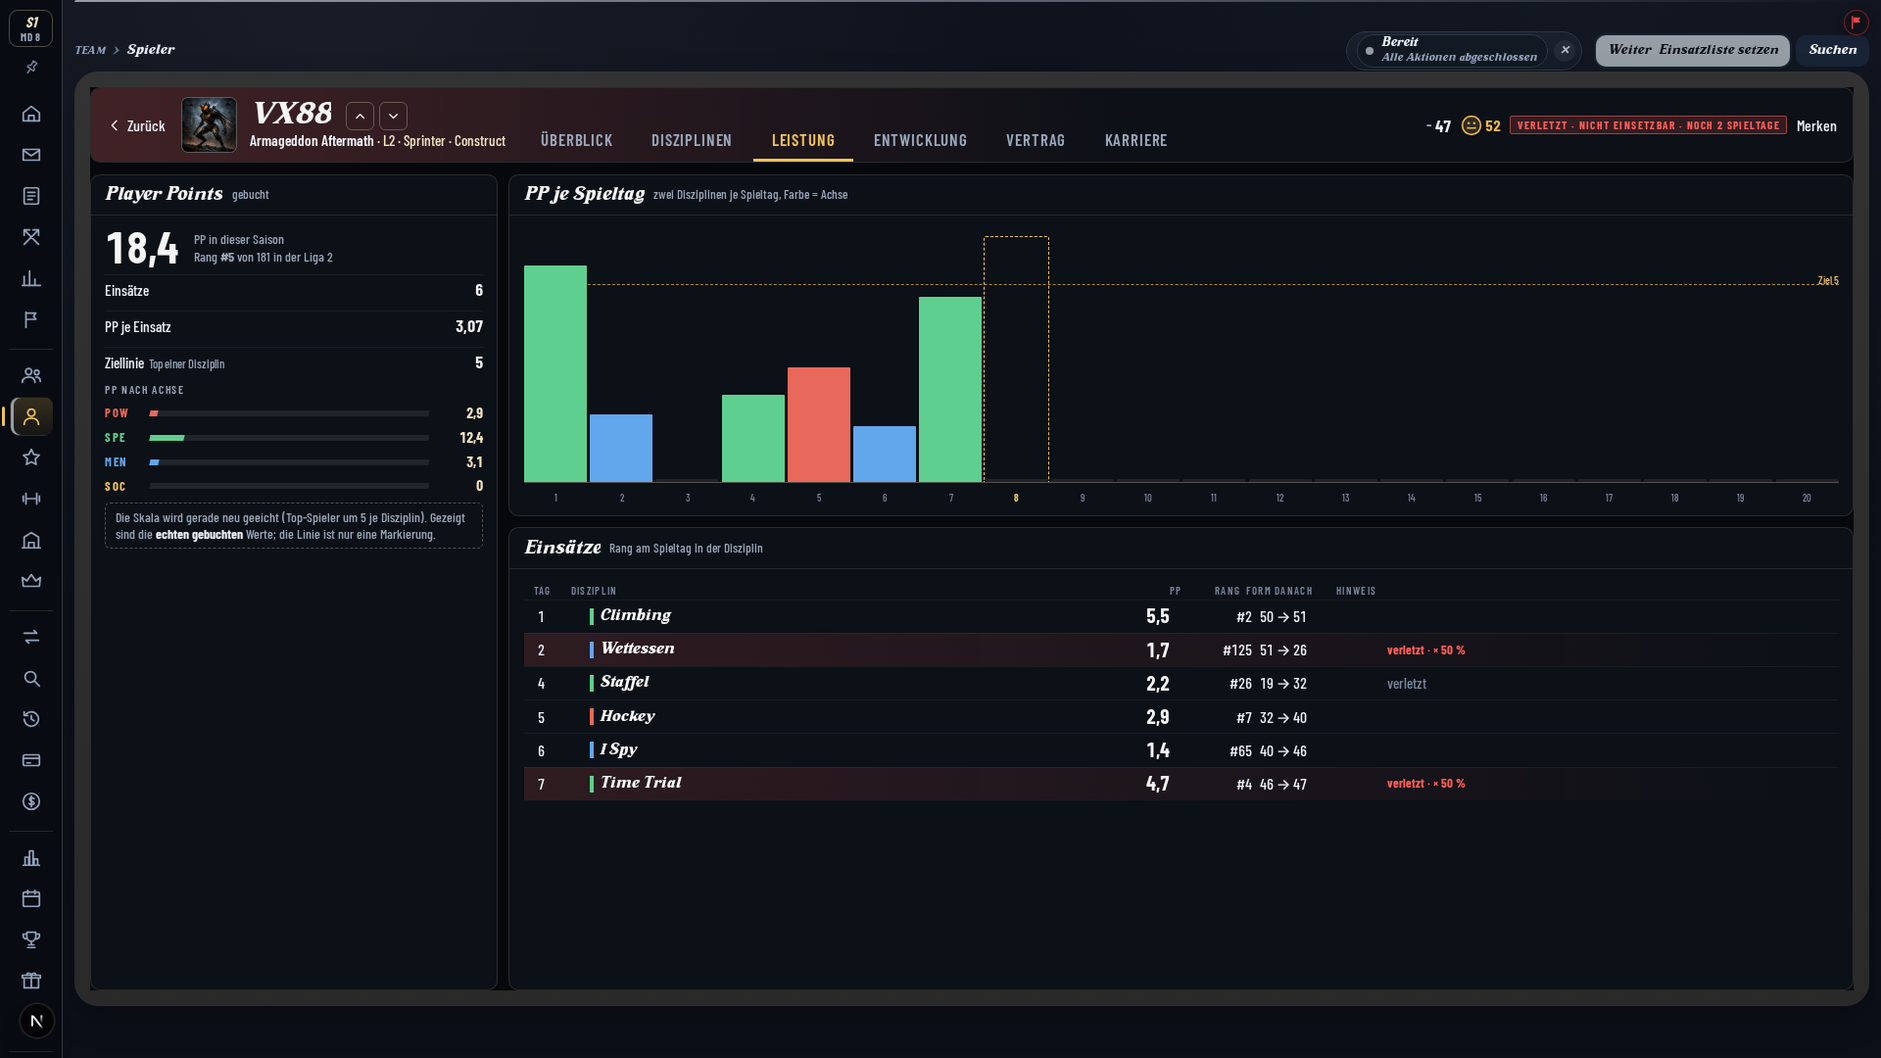
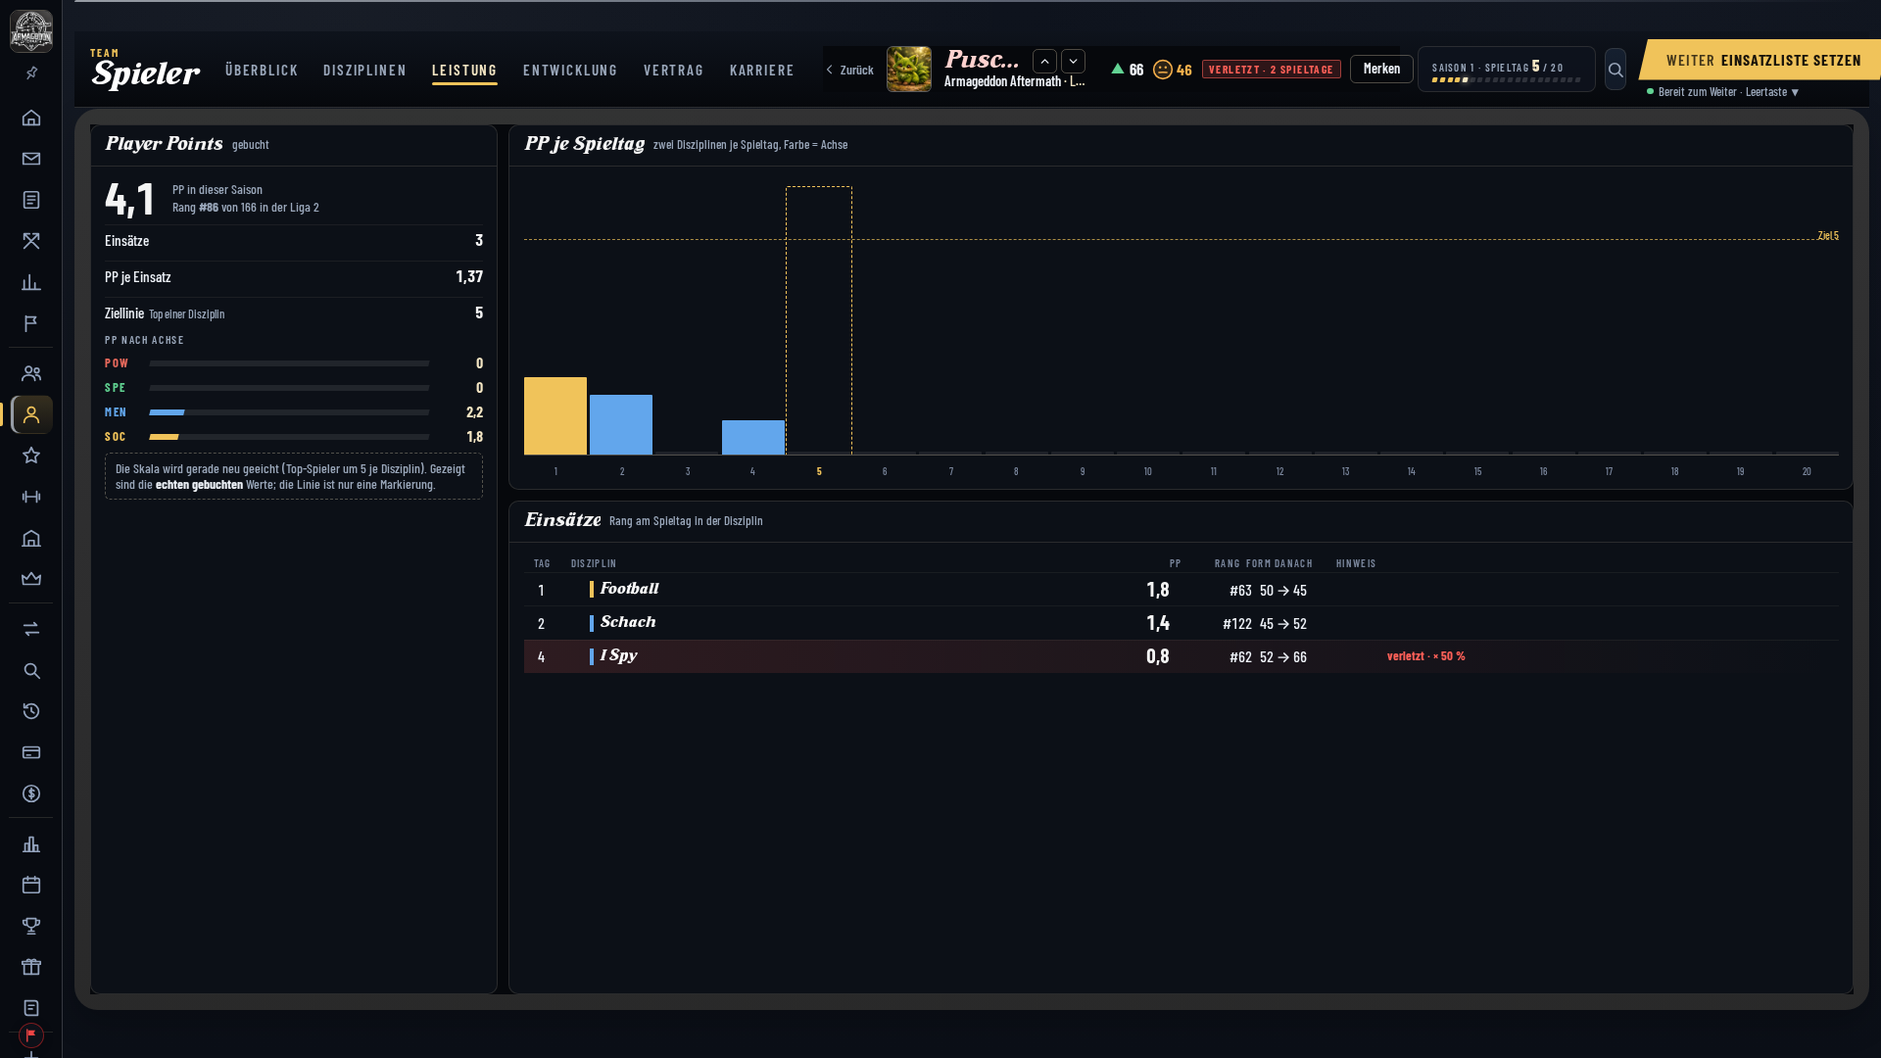
Spielerprofil: Kopf im Regieband des App-Rahmens, Aufnahme-Skript (#1606)
* chore(spielerprofil): Aufnahme-Skript mit Produktionsbuild, Save getrennt, Drawer-Aktionen

Claude-Session: https://claude.ai/code/session_01UYLNtXkprKr1XK4c3X2xQq

* docs(spielerprofil): bisherige Aufnahmen behalten (vor dem Rahmen-Einbau aufgenommen)

Claude-Session: https://claude.ai/code/session_01UYLNtXkprKr1XK4c3X2xQq

* docs(spielerprofil): Abgleich um Rahmen-Einbau ergaenzt

Claude-Session: https://claude.ai/code/session_01UYLNtXkprKr1XK4c3X2xQq

* Spielerprofil: Seite passt in den Rahmen, Kopf mit Namen bei Verletzung, Aufstieg-Animation ohne Bezugsrahmen fuer Fenster, Skript findet Kaderkarten

Claude-Session: https://claude.ai/code/session_01UYLNtXkprKr1XK4c3X2xQq

* Spielerprofil: Neuaufnahmen im Rahmen, Klicktest dokumentiert, Band bei Verletzung ohne Ueberlauf

Claude-Session: https://claude.ai/code/session_01UYLNtXkprKr1XK4c3X2xQq

* Spielerprofil: Verletzungstext im Band wieder aus modell.verletzung.text (Vertrag), kleiner und kuerzbar; Ueberblick-Bilder neu

Claude-Session: https://claude.ai/code/session_01UYLNtXkprKr1XK4c3X2xQq

---------

diff --git a/scripts/screenshot-spielerprofil-neu.ts b/scripts/screenshot-spielerprofil-neu.ts
@@ -6,7 +6,7 @@
 //
 // AUFRUF: npx tsx scripts/screenshot-spielerprofil-neu.ts [spieltage=7]
 // ===================================================================================
-import { spawn, type ChildProcessWithoutNullStreams } from "node:child_process";
+import { spawn, spawnSync, type ChildProcessWithoutNullStreams } from "node:child_process";
 import fs from "node:fs/promises";
 import os from "node:os";
 import path from "node:path";
@@ -121,12 +121,22 @@ async function istErreichbar(timeoutMs: number) {
 }
 
 function starteDevServer(): ChildProcessWithoutNullStreams {
+  const env: NodeJS.ProcessEnv = { ...process.env, OLY_APP_SQLITE_PATH: SQLITE_PATH, PORT, OLY_AUTO_EXPORT_SAVES: "0", OLY_AUTO_EXPORT_PUSH: "0" };
+  // `--use-openssl-ca` in NODE_OPTIONS lässt „Collecting page data“ des Builds scheitern.
+  delete env.NODE_OPTIONS;
+  if (process.env.OLY_SHOT_PROD === "1") {
+    // Produktionsbuild statt Dev-Server (spart Speicher): erst bauen, dann starten. `.next` räumt der Aufrufer danach weg.
+    console.log("[screenshot-profil] baue Produktionsbuild (npm run build) ...");
+    const bau = spawnSync("npm", ["run", "build"], { env, stdio: "inherit" });
+    if (bau.status !== 0) throw new Error(`Build fehlgeschlagen (Status ${bau.status}).`);
+    console.log("[screenshot-profil] starte Produktionsserver (npm run start) ...");
+    const kind = spawn("npm", ["run", "start"], { env, stdio: ["ignore", "pipe", "pipe"], detached: true });
+    kind.stdout.on("data", (stueck) => process.stdout.write(`[srv] ${stueck}`));
+    kind.stderr.on("data", (stueck) => process.stderr.write(`[srv] ${stueck}`));
+    return kind;
+  }
   console.log("[screenshot-profil] starte Dev-Server (OLY_AUTO_EXPORT_SAVES=0, OLY_AUTO_EXPORT_PUSH=0) ...");
-  const kind = spawn("npm", ["run", "dev"], {
-    env: { ...process.env, OLY_APP_SQLITE_PATH: SQLITE_PATH, PORT, OLY_AUTO_EXPORT_SAVES: "0", OLY_AUTO_EXPORT_PUSH: "0" },
-    stdio: ["ignore", "pipe", "pipe"],
-    detached: true,
-  });
+  const kind = spawn("npm", ["run", "dev"], { env, stdio: ["ignore", "pipe", "pipe"], detached: true });
   kind.stdout.on("data", (stueck) => process.stdout.write(`[dev] ${stueck}`));
   kind.stderr.on("data", (stueck) => process.stderr.write(`[dev] ${stueck}`));
   return kind;
@@ -175,6 +185,10 @@ async function main() {
     persistence.saveSingleplayerState(
       ids.saveId, applyGameModeOwnership(stand, { saveMode: "solo_1", chrisTeamIds: [ids.teamId], frankyTeamIds: [] }),
     );
+  }
+  if (process.env.OLY_SHOT_NUR_SAVE === "1") {
+    console.log("[screenshot-profil] Save fertig, Abbruch wie gewünscht (OLY_SHOT_NUR_SAVE=1).");
+    return;
   }
   const gewaehlt = ids;
   console.log(`[screenshot-profil] Star ${gewaehlt.starId}, verletzt ${gewaehlt.verletztId}, fremd ${gewaehlt.fremdId}, ohne Figur ${gewaehlt.ohneFigurId}`);
@@ -231,6 +245,7 @@ async function main() {
       const dsf = b === 2560 ? 1 : 1;
       await aufnehmen(b, h, `01-ueberblick-star-${name}.png`, gewaehlt.starId, "overview", undefined, dsf);
       await aufnehmen(b, h, `02-ueberblick-verletzt-${name}.png`, gewaehlt.verletztId, "overview", undefined, dsf);
+      if (name === "1710x1112") continue;
       await aufnehmen(b, h, `03-disziplinen-${name}.png`, gewaehlt.starId, "disciplines", undefined, dsf);
       await aufnehmen(b, h, `04-leistung-verletzt-${name}.png`, gewaehlt.verletztId, "performance", undefined, dsf);
       await aufnehmen(b, h, `05-vertrag-${name}.png`, gewaehlt.starId, "contract", undefined, dsf);
@@ -240,7 +255,7 @@ async function main() {
       await aufnehmen(b, h, `09-ohne-figur-${name}.png`, gewaehlt.ohneFigurId, "overview", undefined, dsf);
     }
     // Kurzprofil: Liste öffnen (Kader im Team) und auf einen Spieler klicken.
-    const drawer = async (b: number, h: number, name: string, spielerId: string, datei: string) => {
+    const drawer = async (b: number, h: number, name: string, spielerId: string, datei: string, aktion?: "verlaengern" | "verkaufen" | "ganzes-profil") => {
       if (nur && !datei.includes(nur)) return;
       if (process.env.OLY_SHOT_VORHANDENE_UEBERSPRINGEN === "1" && (await fs.stat(path.join(OUTPUT_DIR, datei)).then(() => true, () => false))) return;
       const ctx = await browser!.newContext({ viewport: { width: b, height: h }, deviceScaleFactor: 1 });
@@ -253,7 +268,8 @@ async function main() {
       await briefingZu(page);
       await page.waitForTimeout(4000);
       const spielerName = gewaehlt.namen[spielerId];
-      const finde = () => page.locator(`tr[title="${spielerName} öffnen"], button.nl-teams-playerlink:has-text("${spielerName}")`).first();
+      // Kader-Karten der Teamansicht liegen unter dem Falz (Überschrift „Kader“); Name = anklickbare Karte.
+      const finde = () => page.locator(`.home-v2-player-name:has-text("${spielerName}"), tr[title="${spielerName} öffnen"], button.nl-teams-playerlink:has-text("${spielerName}")`).first();
       let zeile = finde();
       if (!(await zeile.isVisible().catch(() => false))) {
         // Kader-Reiter anwählen, falls die Teamansicht mit einem anderen Reiter beginnt.
@@ -270,12 +286,24 @@ async function main() {
       await page.getByTestId("spielerkurzprofil").waitFor({ state: "visible", timeout: 30_000 }).catch(() => undefined);
       await page.waitForTimeout(1200);
       await page.screenshot({ path: path.join(OUTPUT_DIR, datei) });
+      if (aktion) {
+        const knopf = aktion === "verlaengern" ? page.getByRole("button", { name: /^Verlängern$/ }) : aktion === "verkaufen" ? page.getByRole("button", { name: /^Verkaufen$/ }) : page.getByTestId("spielerkurzprofil-ganzes-profil");
+        await knopf.first().click({ timeout: 20_000 }).catch((e) => console.log(`[screenshot-profil] Klick ${aktion} fehlgeschlagen: ${String(e).slice(0, 120)}`));
+        await page.waitForTimeout(aktion === "ganzes-profil" ? 8000 : 5000);
+        console.log(`[screenshot-profil] nach Klick ${aktion}: ${page.url().replace(/saveId=[^&]+/, "saveId=…")}`);
+        const zielDatei = datei.replace("drawer-", `aktion-${aktion}-`);
+        await page.screenshot({ path: path.join(OUTPUT_DIR, zielDatei) });
+      }
       await ctx.close();
     };
     for (const [b, h, name] of geraete) {
+      if (name === "1710x1112") continue;
       await drawer(b, h, name, gewaehlt.starId, `10-drawer-star-${name}.png`);
       await drawer(b, h, name, gewaehlt.verletztId, `11-drawer-verletzt-${name}.png`);
     }
+    await drawer(1920, 1080, "1920x1080", gewaehlt.verletztId, "13-drawer-verlaengern-1920x1080.png", "verlaengern");
+    await drawer(1920, 1080, "1920x1080", gewaehlt.verletztId, "14-drawer-verkaufen-1920x1080.png", "verkaufen");
+    await drawer(1920, 1080, "1920x1080", gewaehlt.verletztId, "15-drawer-ganzes-profil-1920x1080.png", "ganzes-profil");
     // Zum Schluss: auch der Star (mit Pixel-Figur) verletzt — für das rote Band über der Figur.
     {
       const persistence = createPersistenceService();

diff --git a/app/foundation/spielerprofil/spielerprofil.css b/app/foundation/spielerprofil/spielerprofil.css
@@ -13,8 +13,8 @@
   font-size: var(--spr-u);
   display: flex;
   flex-direction: column;
-  /* Die Shell-Kopfzeile ist in px gebaut (nicht in em dieser Seite): Höhe = Fenster minus Kopf, Rand und Panel-Polster. */
-  height: calc(100vh - var(--fb-u, 16px) * 4.5 - 46px);
+  /* Höhe = Fenster minus Regieband (4,5 Einheiten), Seitenrand, Panel-Polster (16 px) und Schalen-Fuß (48 px), gemessen bei 1920, 2560, 1710: Dokument = Fenster. */
+  height: calc(100vh - var(--fb-u, 16px) * 4.5 - 120px);
   min-height: 40em;
   gap: 0.72em;
   position: relative;
@@ -55,7 +55,8 @@
   min-width: 0;
   display: flex;
   align-items: center;
-  gap: 0.8em;
+  gap: 0.5em;
+  overflow: hidden;
   line-height: 1.15;
 }
 .spr-slot .spr-kopf__port { width: 2.9em; height: 2.9em; border-radius: 0.4em; object-fit: cover; object-position: center 15%; border: 1px solid var(--bc-linie-2); flex: none; background: var(--bc-flaeche-3); }
@@ -69,10 +70,12 @@
 .spr-slot .spr-blaettern button:disabled { opacity: 0.35; cursor: default; }
 .spr-slot .spr-zurueck { font-size: 0.85em; font-weight: 600; color: var(--bc-leise); display: inline-flex; align-items: center; gap: 0.3em; }
 .spr-slot .spr-zurueck:hover { color: var(--bc-gold); }
-.spr-slot .spr-kopf__zustand { display: flex; align-items: center; gap: 0.6em; white-space: nowrap; }
+.spr-slot .spr-kopf__zustand { display: flex; align-items: center; gap: 0.4em; white-space: nowrap; }
 .spr-slot .spr-zst { display: inline-flex; align-items: center; gap: 0.3em; font-weight: 700; font-size: 1.05em; }
 .spr-slot .spr-kn { height: 2em; padding: 0 0.9em; border: 1px solid var(--bc-linie-2); border-radius: 0.4em; font-size: 0.9em; font-weight: 600; color: var(--bc-tinte); display: inline-flex; align-items: center; }
 .spr-marke { font-size: 0.72em; letter-spacing: 0.12em; text-transform: uppercase; font-weight: 700; padding: 0.15em 0.55em; border-radius: 0.2em; background: rgba(242, 160, 61, 0.18); color: var(--bc-heim); border: 1px solid rgba(242, 160, 61, 0.5); white-space: nowrap; }
+.spr-slot .spr-kopf__zustand { min-width: 0; }
+.spr-marke--band { letter-spacing: 0.04em; font-size: 0.64em; min-width: 0; overflow: hidden; text-overflow: ellipsis; flex: 0 1 auto; }
 .spr-marke.is-rot { background: rgba(255, 96, 88, 0.16); color: var(--bc-warn); border-color: rgba(255, 96, 88, 0.55); }
 .spr-marke.is-gruen { background: rgba(98, 211, 148, 0.14); color: var(--bc-gut); border-color: rgba(98, 211, 148, 0.5); }
 .spr-marke.is-grau { background: none; color: var(--bc-leise); border-color: var(--bc-linie-2); }
@@ -82,6 +85,8 @@
 .spr-pfeil.s0 { color: var(--bc-stumm); letter-spacing: 0; }
 .spr-pfeil.sm1, .spr-pfeil.sm2 { color: var(--bc-warn); }
 .spr-slot.is-verletzt .spr-kopf__name { color: #ffd2cf; }
+/* Im Band ist bei Verletzung kein Platz für das Wort: nur der Pfeil, das Wort steht im Titel. */
+.spr-slot.is-verletzt .spr-zurueck__text { display: none; }
 
 /* ---------- Tafel-Gerüst ---------- */
 .spr-tab { flex: 1; min-height: 0; display: grid; gap: 0.72em; }

diff --git a/app/foundation/spielerprofil/SpielerprofilSeite.tsx b/app/foundation/spielerprofil/SpielerprofilSeite.tsx
@@ -85,13 +85,13 @@ export default function SpielerprofilSeite({
       <FoundationBandSlot>
         <div className={`bc spr-slot${modell.verletzung.verletzt ? " is-verletzt" : ""}`} data-testid="spielerprofil-kopf">
           {onClose ? (
-            <button type="button" className="spr-zurueck" onClick={onClose} data-testid="spielerprofil-zurueck">
-              <BcIcon name="links" /> Zurück
+            <button type="button" className="spr-zurueck" aria-label="Zurück" title="Zurück" onClick={onClose} data-testid="spielerprofil-zurueck">
+              <BcIcon name="links" /> <span className="spr-zurueck__text">Zurück</span>
             </button>
           ) : null}
           {/* eslint-disable-next-line @next/next/no-img-element */}
           {data.portraitUrl ? <img className="spr-kopf__port" src={data.portraitUrl} alt="" /> : <span className="spr-kopf__port" aria-hidden="true" />}
-          <div style={{ minWidth: 0 }}>
+          <div style={{ minWidth: "9em", flex: "0 1 auto" }}>
             <h2 className="spr-kopf__name" style={{ display: "flex", alignItems: "center", gap: "0.3em" }}>
               <span style={{ overflow: "hidden", textOverflow: "ellipsis" }}>{data.name}</span>
               <span className="spr-blaettern" role="group" aria-label="Im Kader blättern">
@@ -124,7 +124,7 @@ export default function SpielerprofilSeite({
             ) : null}
             {moral != null ? <BcMoralGesicht wert={moral} mitZahl={!modell.nebel} groesse={22} /> : null}
             {modell.verletzung.verletzt ? (
-              <span className="spr-marke is-rot" data-testid="spielerprofil-status-verletzt">
+              <span className="spr-marke is-rot spr-marke--band" data-testid="spielerprofil-status-verletzt" title={modell.verletzung.text ?? undefined}>
                 {modell.verletzung.text}
               </span>
             ) : data.teamId ? (

diff --git a/components/foundation/broadcast/rahmen.css b/components/foundation/broadcast/rahmen.css
@@ -451,8 +451,10 @@ button.fb-chip:hover {
   animation: none;
   will-change: auto;
 }
+/* `backwards` statt `both`: nach dem Aufstieg bleibt KEIN transform am Kind stehen, sonst wird es zum Bezugsrahmen für `position: fixed` und jedes Fenster
+   (Verhandlung, Verkauf) misst die ganze Seitenhöhe und sitzt außerhalb des Bildschirms (gefunden 19.11. beim Klicktest Kurzprofil → Verlängern). */
 .foundation-shell-content.foundation-view-enter > * {
-  animation: fb-auf 0.34s cubic-bezier(0.16, 1, 0.3, 1) both;
+  animation: fb-auf 0.34s cubic-bezier(0.16, 1, 0.3, 1) backwards;
 }
 .foundation-shell-content.foundation-view-enter > *:nth-child(2) { animation-delay: 0.04s; }
 .foundation-shell-content.foundation-view-enter > *:nth-child(3) { animation-delay: 0.08s; }

diff --git a/docs/design/spielerprofil-neu-abgleich-18-11.md b/docs/design/spielerprofil-neu-abgleich-18-11.md
@@ -32,12 +32,11 @@ Entfernt: `PlayerDetailDrawer.tsx` (4337 Zeilen), `PlayerHeroNewLook.tsx`, `Play
 - Keine Kaderrolle als Wort; kein Reiter „Report“.
 - Disziplinen kompakter, mit Liga-Rang und Rang unter allen Aktiven; PP mit Liga-Rang; Kaderstärke über die besten 6.
 - Gehalt groß je Saison, klein je Spieltag (Überblick, Vertrag, Karriere, Kurzprofil).
-- Kopf (Zurück, Name, Blättern, Reiter, Zustand) steht in der Seite selbst, weil der App-Rahmen mit dem Regieband noch nicht auf `main` liegt; er wandert später in dessen Slot.
+- Kopf (Zurück, Name, Blättern, Zustand, Merken) steht im Seiten-Slot des Regiebands, die Reiter im Unterreiter-Platz (siehe „Einbau in den App-Rahmen“). Im Band ist wenig Platz: bei Verletzung steht dort der Vertragstext „verletzt · nicht einsetzbar · noch N Spieltage“ (`modell.verletzung.text`, kleiner gesetzt, bei Platzmangel mit „…“ gekürzt, vollständig im Tooltip), ausgeschrieben in der Einsatzfähigkeits-Karte und im Kurzprofil.
 - PP-Skala: nur die Markierung bei 5, die Werte sind die echten gebuchten.
 
 ## Fehlt
 
-- Regieband und Seiten-Slot (App-Rahmen nicht auf `main`).
 - Rollen je Disziplin mit „Passung“ (im Mockup erfunden; im Bau wäre es die Platzwert-Funktion der Einsatzliste).
 - Duell-Ergebnis (S/U/N) je Einsatz und Rang-Verlauf in der Leistungstabelle: die Zuordnung „er war aufgestellt“ ist noch nicht gebaut.
 - Marktwert-Verlauf je Spieltag (nur je Saison).
@@ -49,11 +48,31 @@ Entfernt: `PlayerDetailDrawer.tsx` (4337 Zeilen), `PlayerHeroNewLook.tsx`, `Play
 - Die Verletzungs-Mechanik selbst (50 % in der Verletzungs-Disziplin gebucht) liegt auf eigenem Branch; die Anzeige liest die vorhandenen Verletzungsdaten.
 - Phone ist nicht Teil dieses Baus.
 
-## Stand der Aufnahmen
+## Einbau in den App-Rahmen (Runde 2)
 
-Vorhanden (Wegwerf-Save, Skript `scripts/screenshot-spielerprofil-neu.ts`): alle Reiter bei **2560x1440** (Überblick Star, Überblick verletzt, Disziplinen, Leistung verletzt, Vertrag, Entwicklung, Karriere, Nebel fremder Spieler, ohne Figur), bei **1920x1080** Überblick, Überblick verletzt, Disziplinen, Leistung, Vertrag, dazu vier Gegenüberstellungen `abgleich-*.png` (links Mockup, rechts App).
-**Offen:** Entwicklung, Karriere, Nebel und ohne Figur bei 1920x1080, der ganze Satz bei 1710x1112 und die Drawer-Bilder. Der Rechner war durch parallele Dev-Server überlastet (Server stürzten ab), die Läufe laufen seit der Sperre über `flock /tmp/oly-aufnahme.lock`; das Skript setzt mit `OLY_SHOT_VORHANDENE_UEBERSPRINGEN=1` dort fort, wo es aufgehört hat. Der Drawer wird über die Kaderzeile der Teamansicht geöffnet; das Auffinden der Zeile ist im Skript noch nicht bestätigt. Die Messung unten gilt für die vorhandenen Bilder.
+Der Kopf der Seite (Zurück, Porträt, Name, Blättern, Team und Liga, Form, Moral, Status, Merken) steht jetzt im **Seiten-Slot des Regiebands** (`FoundationBandSlot`), die sechs Reiter im Unterreiter-Platz des Bands (`FoundationSubNav` in der Shell). Die Seite hat keinen eigenen Kopf mehr, ihre Höhe richtet sich nach `--fb-u` und der Bandhöhe.
+
+**Korrektur der Höhe (19.11.):** die Neuaufnahme im Rahmen zeigte, dass die Seite 73 px zu hoch war (Dokument 1153 statt 1080 bei 1920x1080, gleiche Abweichung bei 2560 und 1710): Panel-Polster (16 px) und Schalen-Fuß (48 px) des Rahmens fehlten in der Rechnung. Jetzt `100vh - 4,5 · --fb-u - 120px`; gemessen bei 1920x1080, 2560x1440 und 1710x1112: Dokumenthöhe = Fensterhöhe, nichts scrollt.
+
+## Stand der Aufnahmen (19.11., alle im Rahmen neu)
+
+Alle Bilder in `spielerprofil-neu-18-11/` sind neu aus dem Produktionsbau der App (`OLY_SHOT_PROD=1`, deviceScaleFactor 1, Wegwerf-Battle-Save nach vier Spieltagen, Skript `scripts/screenshot-spielerprofil-neu.ts`, Save danach gelöscht, `.next` danach gelöscht):
+
+- **2560x1440 und 1920x1080:** `01` Überblick Star, `02` Überblick verletzt, `03` Disziplinen, `04` Leistung verletzt, `05` Vertrag, `06` Entwicklung, `07` Karriere, `08` Nebel fremder Spieler, `09` ohne Figur.
+- **1710x1112:** `01`, `02` Überblick (Star, verletzt).
+- **Kurzprofil:** `10` Drawer Star, `11` Drawer verletzt (2560 und 1920), `12` Überblick mit verletzter Figur (rotes Band), `13`/`14`/`15` Drawer vor Verlängern, Verkaufen, Ganzes Profil, dazu `13-aktion-verlaengern-…`, `14-aktion-verkaufen-…`, `15-aktion-ganzes-profil-…` nach dem Klick.
+- `abgleich-*.png` (links Mockup, rechts App) sind **nicht neu**: sie stammen aus der Zeit vor dem Einbau in den Rahmen und zeigen den alten eigenen Kopf.
+
+## Klicktest Kurzprofil, Verlängern, Verkaufen (19.11., echte App im Produktionsbau)
+
+Weg: Teamansicht, Kaderkarte anklicken, Kurzprofil, dann je Knopf. Gemessen mit Playwright gegen den Produktionsserver.
+
+- **Kurzprofil** öffnet über die Kaderkarte (Skript findet die Karte jetzt über `.home-v2-player-name`; die alte Suche nach Tabellenzeilen fand nichts, Kader sind Karten unter dem Falz).
+- **Ganzes Profil öffnen** wechselt auf `?view=playerProfile&tab=overview&playerId=…`, die Seite mit Rahmen-Kopf steht.
+- **Verlängern** öffnet die Gehaltsverhandlung. **Das ging zunächst nicht:** das Fenster saß außerhalb des Bildschirms (Hintergrund verwischt, kein Fenster sichtbar). Ursache: `fb-auf … both` in `components/foundation/broadcast/rahmen.css` ließ nach dem Aufstieg ein `transform` am Inhalt stehen; damit wurde `.foundation-content` zum Bezugsrahmen für `position: fixed`, der Hintergrund maß 2761 px statt 1080 px und das Fenster saß in dessen Mitte. Behoben mit `backwards` statt `both`; danach misst der Hintergrund 1080 px und das Fenster steht mittig. Betrifft jedes Fenster aus der Teamansicht, nicht nur das Profil.
+- **Das Fenster zeigt mitten in der Saison „Gehaltsverhandlung öffnet am Season-End (nach MD10) – bis dahin nur Vorschau“** und sperrt die Schritte; das ist die bestehende Regel, kein Fehler dieses Baus.
+- **Verkaufen:** der Aufruf geht raus, die Antwort ist `409 sell_only_at_season_end` (Verkauf nur zum Saisonende). Es öffnet sich kein Fenster, und in den sechs Sekunden danach war keine sichtbare Meldung zu sehen. Das ist das Verhalten des bestehenden Verkaufswegs; ob er eine sichtbare Rückmeldung geben sollte, ist eine eigene Frage und hier nicht verändert.
 
 ## Messung
 
-Je Aufnahme prüft das Skript `scrollWidth/-Height`: die Seite scrollt bei allen drei Zielbildschirmen nicht. Einzige gemeldete Überbreite ist die Pixel-Figur, die absichtlich über ihren Kasten hinausragt (durchsichtiger Rand, abgeschnitten).
+Je Aufnahme prüft das Skript `scrollWidth/-Height`. Dokumenthöhe = Fensterhöhe bei allen drei Zielbildschirmen. Im ersten Durchlauf meldeten die Seiten mit verletztem Spieler `seiteScrollt: true` über die Breitenprüfung: das Band ragte rechts über (Merken über der Saison-Uhr, „Weiter“ angeschnitten), weil Name, Zurück-Wort und der lange Status nicht nebeneinander passten. Jetzt steht im Band der Vertragstext kleiner und kürzbar, bei Verletzung nur der Pfeil statt „Zurück“, der Namenskasten hat eine Mindestbreite, und die Überblick-Bilder (`01`, `02`, `12`, alle drei Größen) sind danach neu aufgenommen und das Band passt; `seiteScrollt` bleibt bei den verletzten Bildern wegen der Figur-Überbreite (`spr-fb`) auf true, die Dokumenthöhe stimmt (= Fensterhöhe). `03`–`09` stammen aus dem Durchlauf davor (anderer Wegwerf-Save, also andere Spielernamen); ihr Inhalt hat sich durch die Band-Änderung nicht verschoben, ihre Messzeile war aber noch die alte. Bei 1710x1112 wird der Name im Band noch mit „…“ gekürzt. Gemeldete Überbreite sonst nur bei der Pixel-Figur, die absichtlich über ihren Kasten hinausragt (durchsichtiger Rand, abgeschnitten).
